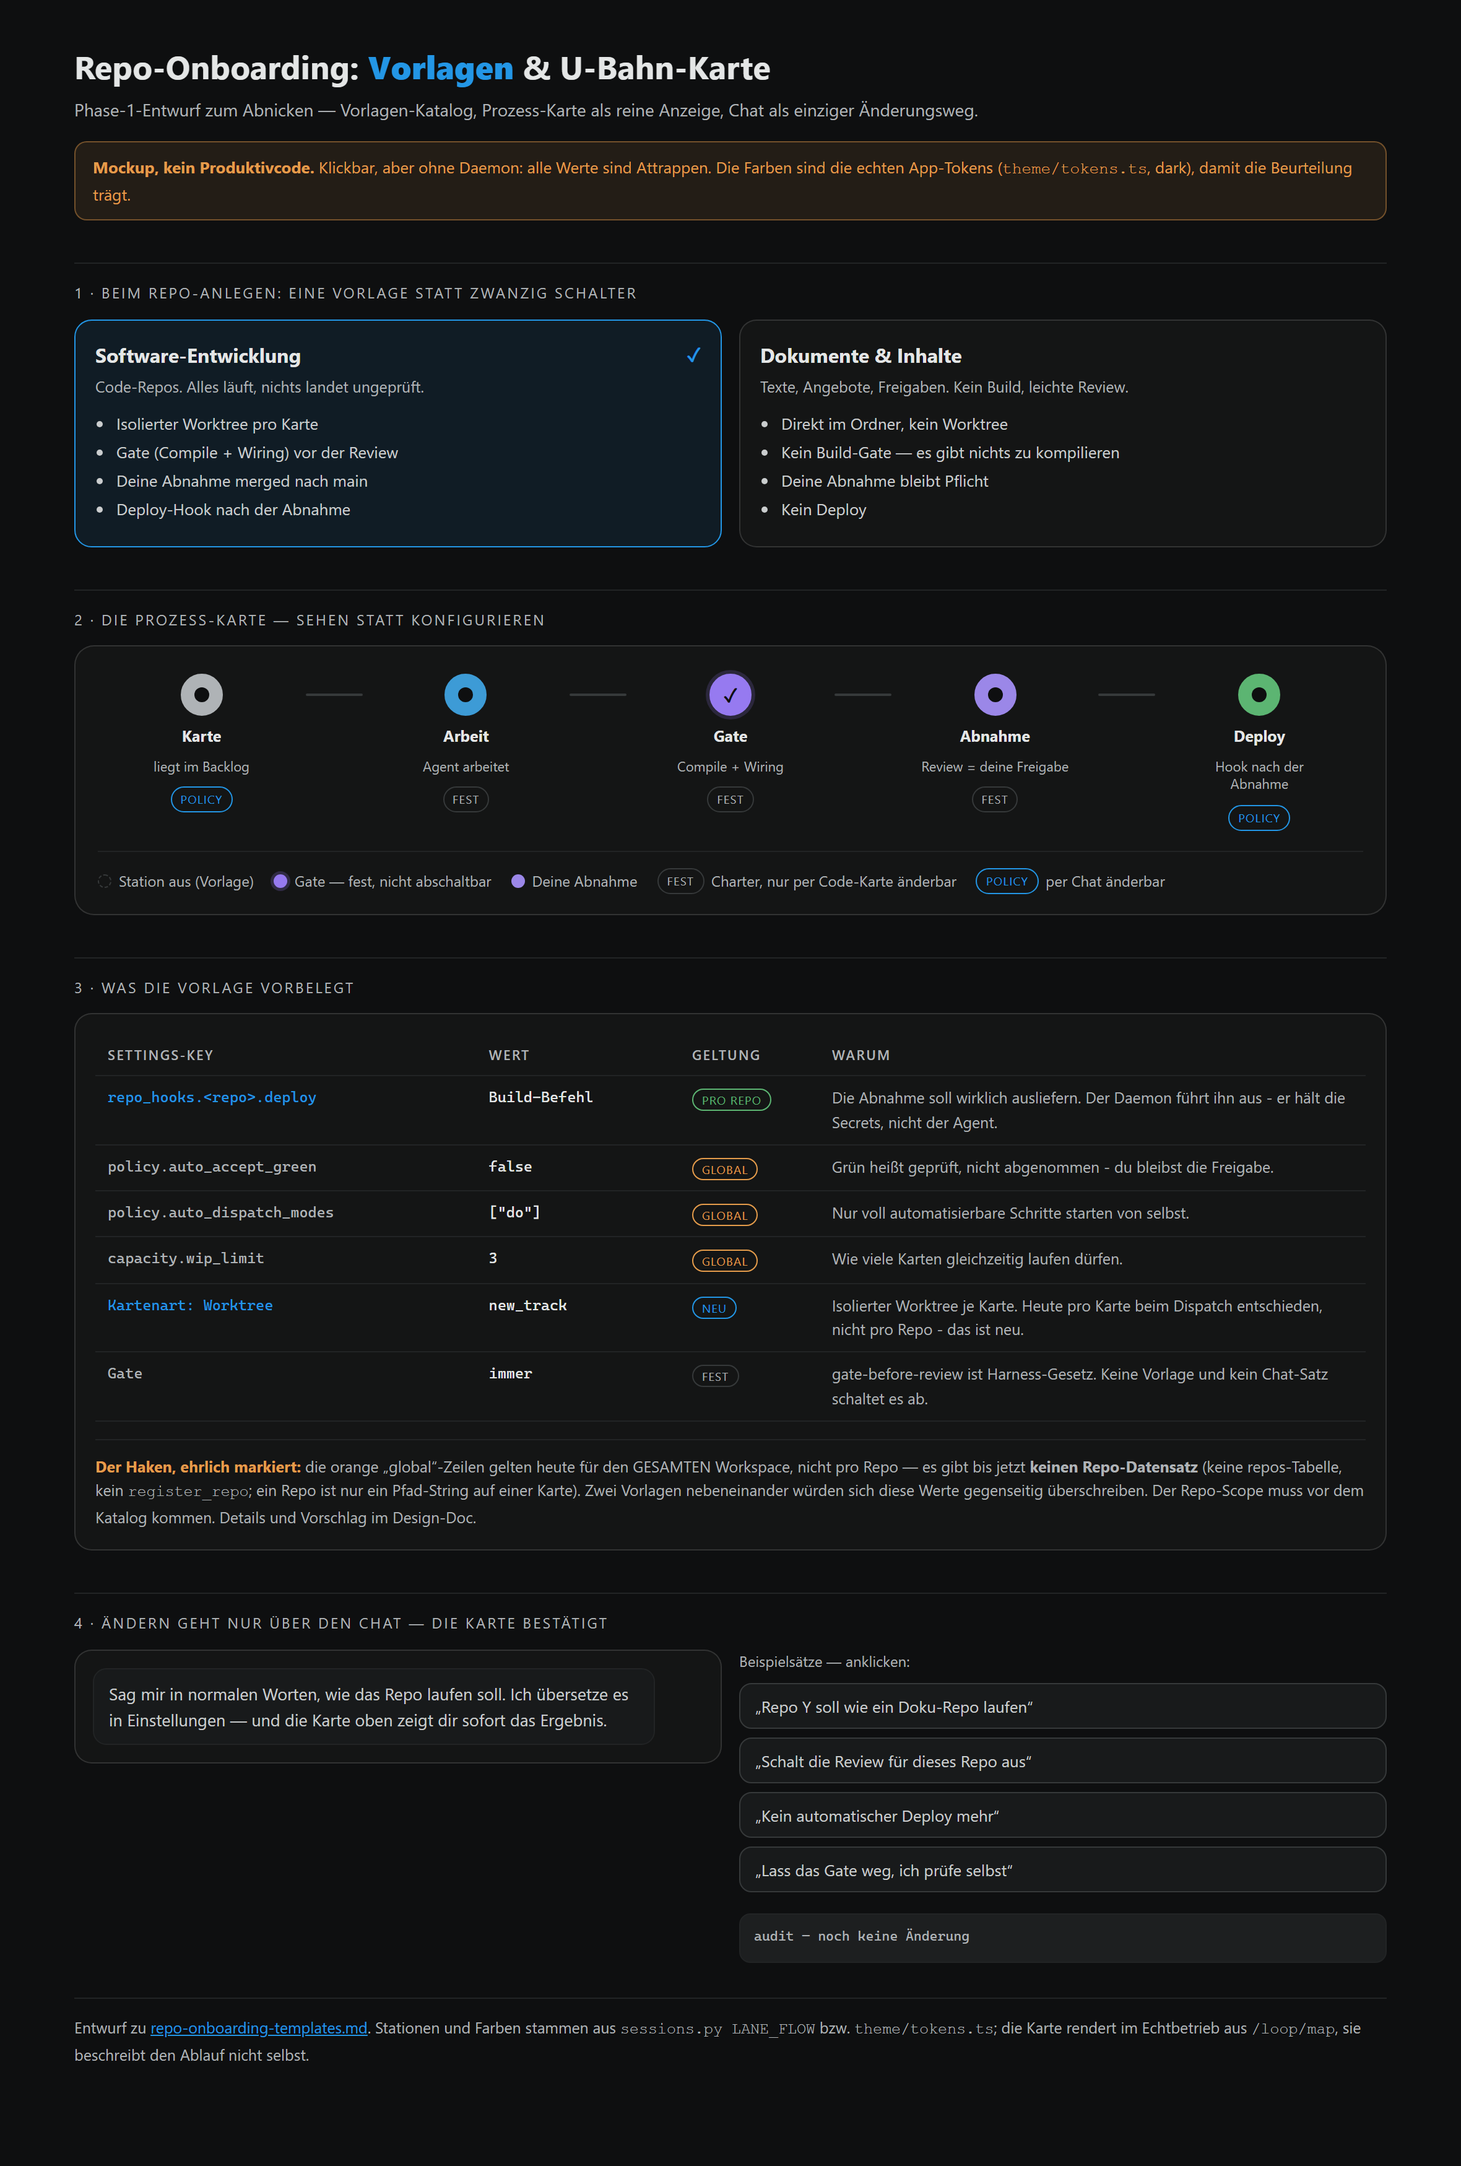
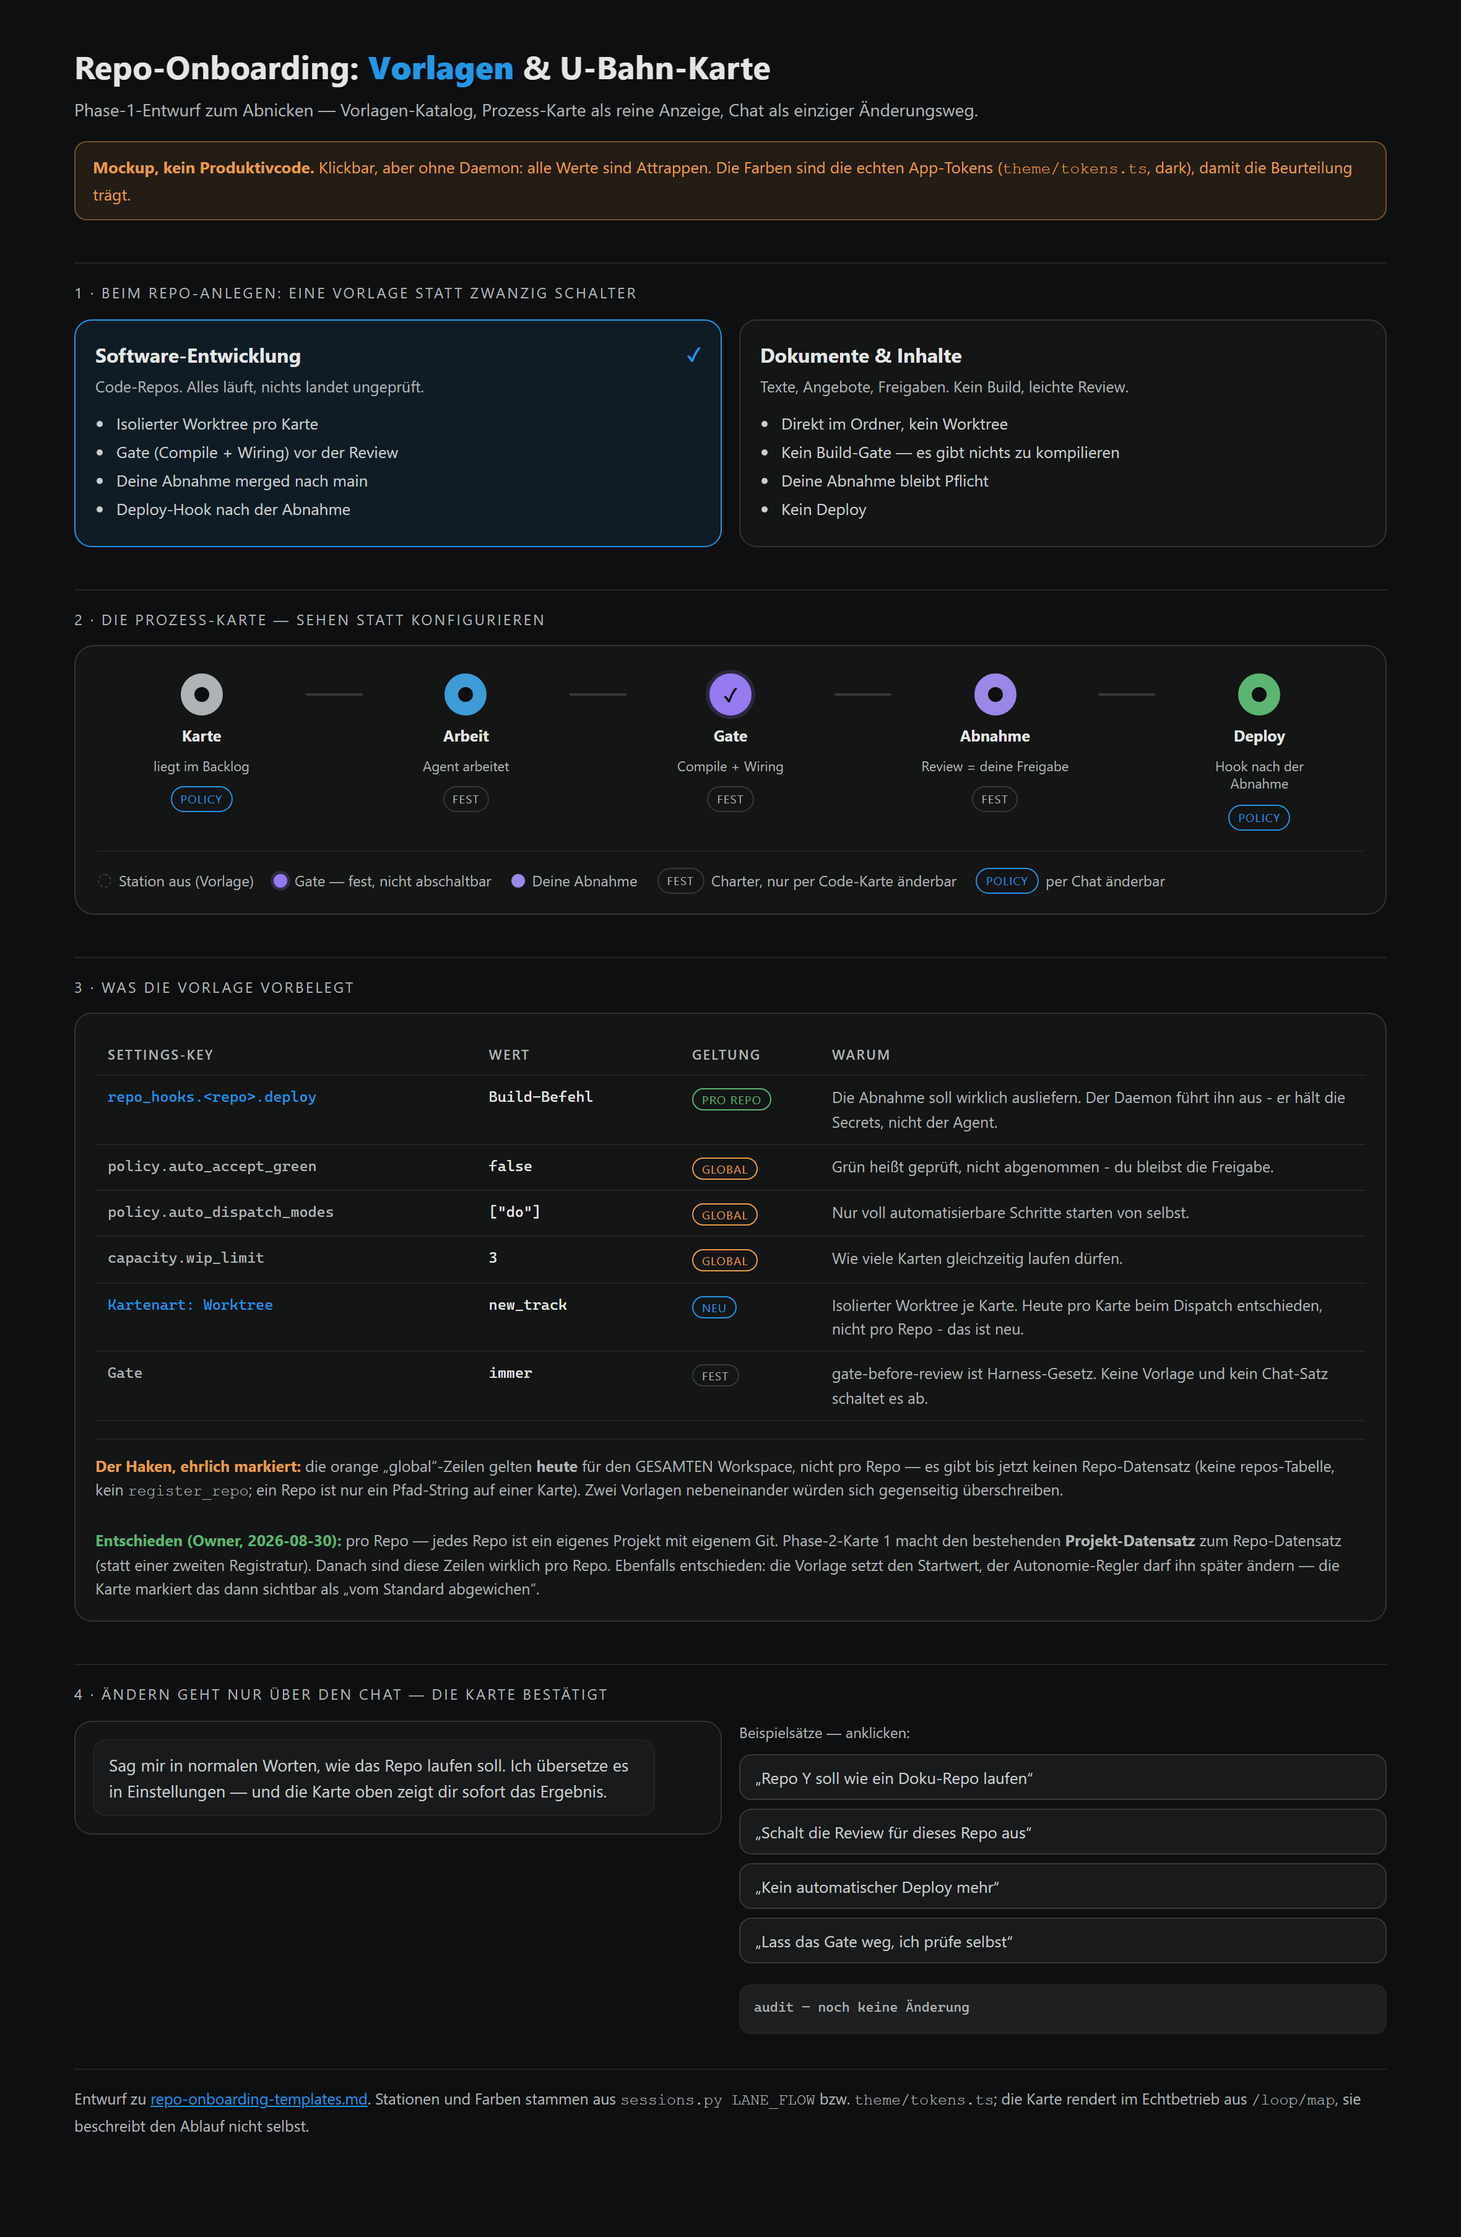
docs(onboarding): Owner-Entscheidungen eingearbeitet - Repo = Projekt = Git
Drei Entscheidungen vom 2026-08-30 sind jetzt Teil des Designs, nicht mehr
offene Fragen:

1. Repo-Scope: PRO REPO. "Jedes Repo ist eigenes Projekt und eigenes Git."
2. Vorrang: die Vorlage setzt den Startwert, der Autonomie-Regler darf ihn
   danach aendern - die Abweichung wird sichtbar markiert.
3. Die drei Produktivcode-Fixes am First-Run-Screen bleiben auf diesem Branch.

Entscheidung 1 hat meinen eigenen Vorschlag KORRIGIERT, und das ist der
eigentliche Inhalt dieses Commits. Ich hatte eine neue Datei daemon/repos.json
nach dem Muster gxp.lock empfohlen. Wenn ein Repo aber PER DEFINITION ein
Projekt ist, waere das eine zweite Registratur neben der projects-Tabelle, an
der Karten ueber project_id ohnehin schon haengen - genau der "zweite Edit-Ort",
den der Settings-Decree verbietet. HelmDeck hat davon bereits eine dritte,
unechte: known_repos (routes_gxp.py:32-39) synthetisiert bei jedem Aufruf eine
Repo-Liste aus pm.repos + repo_hooks.keys() + default_repo.

Deshalb jetzt: der BESTEHENDE Projekt-Datensatz wird der Repo-Datensatz
(repo/template/applied_by/overrides dazu). Er liegt in helmdeck.db, also
ausserhalb settings.json - womit die harte Randbedingung aus HARNESS.md:229-233
("was nicht per Chat aenderbar sein darf, gehoert nicht unter policy") ohne eine
neue Datei erfuellt ist. known_repos liest kuenftig daraus, statt zu raten.

Die Migration ist ehrlich benannt statt weggelassen: heute sind Projekt
[…]

diff --git a/ops/docs/repo-templates-mockup.html b/ops/docs/repo-templates-mockup.html
@@ -175,11 +175,17 @@
       <tbody id="presets"></tbody>
     </table>
     <p class="why" style="margin:14px 0 0;padding-top:12px;border-top:1px solid var(--borderSubtle)">
-      <b style="color:var(--warn)">Der Haken, ehrlich markiert:</b> die orange „global“-Zeilen gelten heute
-      für den GESAMTEN Workspace, nicht pro Repo &mdash; es gibt bis jetzt <b>keinen Repo-Datensatz</b>
-      (keine repos-Tabelle, kein <code>register_repo</code>; ein Repo ist nur ein Pfad-String auf einer Karte).
-      Zwei Vorlagen nebeneinander würden sich diese Werte gegenseitig überschreiben.
-      Der Repo-Scope muss vor dem Katalog kommen. Details und Vorschlag im Design-Doc.
+      <b style="color:var(--warn)">Der Haken, ehrlich markiert:</b> die orange „global“-Zeilen gelten
+      <b>heute</b> für den GESAMTEN Workspace, nicht pro Repo &mdash; es gibt bis jetzt keinen
+      Repo-Datensatz (keine repos-Tabelle, kein <code>register_repo</code>; ein Repo ist nur ein
+      Pfad-String auf einer Karte). Zwei Vorlagen nebeneinander würden sich gegenseitig überschreiben.
+      <br><br>
+      <b style="color:var(--ok)">Entschieden (Owner, 2026-08-30):</b> pro Repo &mdash; jedes Repo ist
+      ein eigenes Projekt mit eigenem Git. Phase-2-Karte 1 macht den bestehenden
+      <b>Projekt-Datensatz</b> zum Repo-Datensatz (statt einer zweiten Registratur). Danach sind
+      diese Zeilen wirklich pro Repo. Ebenfalls entschieden: die Vorlage setzt den Startwert,
+      der Autonomie-Regler darf ihn später ändern &mdash; die Karte markiert das dann sichtbar
+      als „vom Standard abgewichen“.
     </p>
   </div>
 

diff --git a/ops/docs/repo-onboarding-templates.md b/ops/docs/repo-onboarding-templates.md
@@ -1,7 +1,9 @@
 # Repo-Onboarding mit Harness-Templates — Design (Phase 1)
 
-**Status:** Entwurf zur Abnahme. Kein Produktivcode. Phase 2 = eigene Karten.
-**Owner-Decree:** 2026-08-29 (Neuausrichtung + Nachtrag „U-Bahn-Karte, Chat als Änderungsweg").
+**Status:** Design **abgenommen** 2026-08-30, offene Kernfragen entschieden (§8).
+Phase 2 = eigene Karten, Reihenfolge in §6.
+**Owner-Decree:** 2026-08-29 (Neuausrichtung + Nachtrag „U-Bahn-Karte, Chat als Änderungsweg"),
+2026-08-30 (Repo = eigenes Projekt = eigenes Git; Vorrangregel Vorlage/Regler).
 **Mockup:** [`repo-templates-mockup.html`](repo-templates-mockup.html) (klickbar, im Browser öffnen).
 
 Antwort auf: *„Settings zu komplex, muss idiot-proof sein."*
@@ -228,41 +230,67 @@ Karte. Ohne Repo-Scope ist die Vorlage ein Etikett ohne Wirkung.
 
 ## 4. Der Bauplan
 
-### 4.1 Repo-Scope zuerst (Voraussetzung für alles andere)
+### 4.1 Repo-Scope zuerst (Voraussetzung für alles andere) — ENTSCHIEDEN
 
-Ein Repo-Dokument nach dem Vorbild von `gxp.lock` — **außerhalb** von
-`settings.json`, weil `HARNESS.md:229-233` unmissverständlich ist:
+**Owner 2026-08-30:** *„Pro Repo. Jedes Repo ist eigenes Projekt und eigenes
+Git. Diese Architektur sollte klar sein."*
 
-> *„… the chat path whitelists **top-level keys only** — so any `policy.*`
-> sub-key is reachable from chat once `policy` is listed. **If your knob must
-> not be chat-editable, it does not belong under `policy`.**"*
+Damit ist die Einheit gesetzt: **ein Repo = ein Projekt = ein Git.**
 
-Alles unter `policy` ist per Konstruktion chat-schreibbar. Der Repo-Datensatz
-gehört also **nicht** dorthin, sonst kann ein Satz im Chat die Vorlage eines
-fremden Repos umschreiben.
+Zwei harte Randbedingungen:
 
-Vorschlag `daemon/repos.json`:
+1. Der Datensatz darf **nicht unter `policy`** liegen. `HARNESS.md:229-233`:
+   > *„… the chat path whitelists **top-level keys only** — so any `policy.*`
+   > sub-key is reachable from chat once `policy` is listed. **If your knob must
+   > not be chat-editable, it does not belong under `policy`.**"*
+
+   Sonst könnte ein Satz im Chat die Vorlage eines *fremden* Repos umschreiben.
+2. **Keine zweite Registratur.** Bindendes Nicht-Ziel der Settings-IA-Karte:
+   „kein zweiter Edit-Ort für irgendeinen Key".
+
+**Empfehlung (revidiert):** *nicht* eine neue Datei `daemon/repos.json`, sondern
+den **bestehenden Projekt-Datensatz** zum Repo-Datensatz machen —
+`spine/ops/projects.py:42-47`, gespeichert über `db.project_put`
+(`spine/storage/db.py:250`), Karten hängen bereits per `project_id` daran.
+
+Warum ich von meinem eigenen ersten Vorschlag abrücke: Ein `repos.json` neben
+der `projects`-Tabelle wäre genau die zweite Registratur, die der Decree
+verbietet — und HelmDeck hat heute schon eine *dritte*, unechte: `known_repos`
+in `routes_gxp.py:32-39` synthetisiert bei jedem Aufruf eine Repo-Liste aus
+`pm.repos ∪ repo_hooks.keys() ∪ {default_repo}`. Die Entscheidung „Repo =
+Projekt" macht diese Krücke überflüssig, statt eine vierte danebenzustellen.
+
+Der Projekt-Datensatz bekommt dazu:
 
 ```jsonc
 {
-  "C:/pfad/zum/repo": {
-    "template": "software-dev",
-    "applied_at": "2026-08-29T…Z",
-    "applied_by": "owner",
-    "overrides": { "policy.auto_accept_green": true }
-  }
+  "id": "20260830-…-helmdeck",       // existiert
+  "name": "HelmDeck", "client": "…",  // existiert
+  "billing": "fixed", "rate": …,      // existiert
+  "repo":      "C:/pfad/zum/repo",    // NEU - der Git-Ordner, 1:1
+  "template":  "software-dev",        // NEU
+  "applied_at": "…", "applied_by": "owner",
+  "overrides": { "policy.auto_accept_green": true }
 }
 ```
 
-- Gelesen über **eine** Zugriffsfunktion (`repos.for_path(p)`), gemischt als
+- Liegt in `helmdeck.db`, also **außerhalb** von `settings.json` — Bedingung 1
+  automatisch erfüllt, ohne eine neue Datei zu erfinden.
+- **Ein** Leser (`projects.for_repo(path)`), Auflösung
   `Default → Vorlage → overrides`.
-- Geschrieben über **einen** Mutator (`repos.apply_template` /
-  `repos.set_override`), der auditiert — dasselbe Ein-Eigentümer-Muster wie
-  `policy.swap`.
+- **Ein** Mutator (`projects.apply_template`), auditiert — dasselbe
+  Ein-Eigentümer-Muster wie `policy.swap`.
 - **Vorsicht** (`events.py:152`, `:192-194`): `events.settings()` **überschreibt
-  Top-Level-Keys, es merged nicht tief**, und `save_settings` merged nur eine
-  Ebene. Deshalb eine eigene Datei statt eines verschachtelten Blocks im
-  Settings-Blob.
+  Top-Level-Keys, es merged nicht tief**, `save_settings` merged nur eine Ebene.
+  Ein weiterer Grund, den Datensatz *nicht* in den Settings-Blob zu legen.
+
+**Migration, ehrlich benannt:** heute sind Projekt (Abrechnungs-Container) und
+Repo (Pfad-String auf der Karte) zwei getrennte Achsen — eine Karte trägt
+`project_id` *und* `repo`. Die Entscheidung führt sie zusammen. Bestehende
+Karten müssen ihr Repo auf ein Projekt abgebildet bekommen; Projekte ohne Repo
+und Repos ohne Projekt sind der Übergangsfall, den die erste Phase-2-Karte
+sauber behandeln muss (Vorschlag: beim ersten Sehen eines unbekannten Repos
+automatisch ein Projekt anlegen, Vorlage abfragen).
 
 ### 4.2 Die U-Bahn-Karte: reine Anzeige, abgeleitet
 
@@ -333,9 +361,19 @@ Das Muster ist identisch, nur eine Ebene höher: der **Autonomie-Dial** (Karte 4
 fasst mehrere Keys zu *einer* verständlichen Stufe zusammen — die **Repo-Vorlage**
 tut dasselbe für einen ganzen Repo-Typ.
 
-⚠ **Konflikt, der entschieden werden muss:** Dial *und* Vorlage schreiben beide
-`policy.auto_accept_green` und `policy.auto_dispatch_*`. Ohne Vorrangregel
-überschreiben sie sich gegenseitig. Siehe §8 Frage 2.
+**Vorrangregel — ENTSCHIEDEN (Owner 2026-08-30):** Dial *und* Vorlage schreiben
+beide `policy.auto_accept_green` und `policy.auto_dispatch_*`.
+
+> **Die Vorlage setzt den Ausgangswert beim Onboarding. Der Regler darf ihn
+> danach überschreiben. Die U-Bahn-Karte kennzeichnet jede so entstandene
+> Abweichung sichtbar als „vom Standard abgewichen".**
+
+Das Sichtbarmachen ist der tragende Teil, nicht die Reihenfolge: der Grund für
+den ganzen Umbau war „ich verstehe nicht, was dahinter ist". Ein still
+überschriebener Wert wäre genau dieser Fehler in neuer Form. Umsetzung: der
+Projekt-Datensatz merkt sich in `overrides`, was vom Vorlagen-Wert abweicht —
+damit ist die Abweichung **Daten, nicht Rekonstruktion durch Vergleich**
+(NO-MONKEY-PATCHES: an genau einem Ort geschrieben, beim Setzen).
 
 Bindendes Nicht-Ziel von dort, das hier weiter gilt:
 > „Keine zweite Chat-UI, kein zweiter Edit-Ort für irgendeinen Key (Decree)."
@@ -346,8 +384,9 @@ Die U-Bahn-Karte als **reine Anzeige** erfüllt das exakt.
 
 ## 6. Empfehlung
 
-1. **Repo-Scope zuerst bauen** (`daemon/repos.json` + ein Leser + ein Mutator,
-   Muster `gxp.lock`). Ohne ihn ist jede Vorlage Kosmetik.
+1. **Repo-Scope zuerst bauen** — der Projekt-Datensatz wird der Repo-Datensatz
+   (`repo` + `template` + `overrides`), ein Leser, ein Mutator, auditiert.
+   Ohne ihn ist jede Vorlage Kosmetik. **Entschieden, §4.1.**
 2. **Genau zwei Vorlagen** ausliefern (`software-dev`, `documents`). Ein dritter
    Typ ist erst sinnvoll, wenn die ersten beiden im Alltag getragen haben.
 3. **Karte aus `/loop/map` ableiten**, `?repo=` ergänzen. Keine Stationsliste im
@@ -359,9 +398,14 @@ Die U-Bahn-Karte als **reine Anzeige** erfüllt das exakt.
    sie setzt, verspricht Wirkung, die es nicht gibt. Entweder erst die
    Durchsetzung bauen — oder die Finger davon lassen. Ich empfehle: Finger weg.
 
-**Vorgeschlagene Phase-2-Karten:** `repo-scope-record` → `repo-templates-catalog`
-→ `loopmap-per-repo` → `chat-template-verb`. Reihenfolge zwingend: 1 vor allem
-anderen.
+**Phase-2-Karten** (Reihenfolge zwingend, 1 vor allem anderen):
+
+| # | Karte | Inhalt | Akzeptanz |
+|---|---|---|---|
+| 1 | `repo-project-record` | `projects` bekommt `repo`/`template`/`overrides`; ein Leser `for_repo()`, ein Mutator `apply_template()`, auditiert; unbekanntes Repo legt beim ersten Sehen ein Projekt an; `known_repos` (`routes_gxp.py:32-39`) liest ab jetzt daraus statt zu synthetisieren | zwei Repos tragen gleichzeitig verschiedene Vorlagen, ohne sich zu überschreiben |
+| 2 | `repo-templates-catalog` | `ops/harness/templates/*.md` mit mtime-Reload + Fallback (Muster `agents/*.md`); die zwei Vorlagen aus §3 | kaputte Vorlagen-Datei kann keine Karte am Starten hindern |
+| 3 | `loopmap-per-repo` | `/loop/map?repo=` filtert Knoten über die Vorlage (Muster: `modes`-Filter in `loop_state.machine()`); inaktive Station gestrichelt statt versteckt; `gating` in `statusTokens` ergänzen (`gen_tokens.py`) | Karte zeigt für beide Repo-Typen den richtigen Verlauf, abgeleitet aus `/loop/map` |
+| 4 | `chat-template-verb` | `apply_template` im Copilot, Rollen über `policy.chat_configure_roles`, Ablehnung mit Route wie `copilot_actions.py:122-126` | die Sätze aus §4.3 wirken; „Gate weg" / „Review aus" werden mit Route abgelehnt |
 
 ---
 
@@ -375,26 +419,31 @@ anderen.
 
 ---
 
-## 8. Offene Fragen an den Owner
+## 8. Entscheidungen des Owners (2026-08-30)
 
-**1 — Repo-Scope: eigene Datei oder erst mal global?**
-Empfehlung: eigene Datei `daemon/repos.json` (Muster `gxp.lock`), weil alles
-unter `policy` per Konstruktion chat-schreibbar ist. Alternative: Vorlagen
-vorerst nur global (ein Workspace = ein Repo-Typ) — deutlich billiger, aber
-zwei Repos unterschiedlichen Typs sind dann nicht möglich.
+| # | Frage | Entscheidung |
+|---|---|---|
+| 1 | Repo-Scope: eigene Datei, oder erst mal global? | **Pro Repo.** *„Jedes Repo ist eigenes Projekt und eigenes Git."* → §4.1 |
+| 2 | Vorrang Autonomie-Regler vs. Repo-Vorlage | **Vorlage setzt den Startwert, der Regler darf ändern**, Abweichung wird sichtbar markiert → §5 |
+| 3 | Die drei Produktivcode-Fixes am First-Run-Screen | **Behalten** — bleiben auf diesem Branch und gehen mit der Abnahme live |
 
-**2 — Vorrang zwischen Autonomie-Dial und Repo-Vorlage.**
-Beide schreiben dieselben Keys. Wer gewinnt? Vorschlag: Vorlage setzt den
-Ausgangswert beim Onboarding, der Dial darf ihn danach pro Workspace
-überschreiben, und die Karte zeigt „vom Standard abgewichen".
+Die Architektur-Aussage aus Entscheidung 1 hat meinen eigenen Vorschlag
+korrigiert: weil ein Repo ein Projekt IST, wird der bestehende
+Projekt-Datensatz erweitert, statt eine zweite Registratur (`daemon/repos.json`)
+danebenzustellen. Begründung in §4.1.
 
-**3 — Darf eine Vorlage `capacity.wip_limit` überhaupt anfassen?**
+## 9. Noch offen (blockiert Phase 2 nicht)
+
+**A — Darf eine Vorlage `capacity.wip_limit` anfassen?**
 Das ist eine Eigenschaft der *Maschine* (wie viel Last der PC verträgt), nicht
-des Repo-Typs. Ich neige zu **nein** — raus aus der Vorlage.
+des Repo-Typs. Ich neige klar zu **nein** und habe es in der Vorlagen-Tabelle
+(§3) vorerst stehen lassen, damit die Frage sichtbar bleibt. Wenn beim Bau
+nichts dagegen spricht: raus aus der Vorlage, rein in den Regler.
 
-**4 — Paseo-Quelle.**
+**B — Paseo-Quelle gegenprüfen.**
 `~/Downloads/_paseo_src` ist vom Worktree-Guard dieser Karte **blockiert**; ich
 konnte die Quelle nicht wie beauftragt lesen. Das Paseo-Material hier stammt
-aus dem bereits recherchierten Abschnitt der Settings-IA-Karte (Drei Scopes:
-app-lokal / pro Host / **pro Projekt-Datei** — was §4.1 stützt) und ist damit
-**zweiter Hand**. Soll eine Folgekarte ohne diesen Guard das gegenprüfen?
+aus dem recherchierten Abschnitt der Settings-IA-Karte (drei Scopes: app-lokal /
+pro Host / **pro Projekt-Datei** — was §4.1 stützt) und ist damit **zweiter
+Hand**. Eine Folgekarte ohne diesen Guard sollte das bestätigen, bevor Phase 2
+sich darauf beruft.
